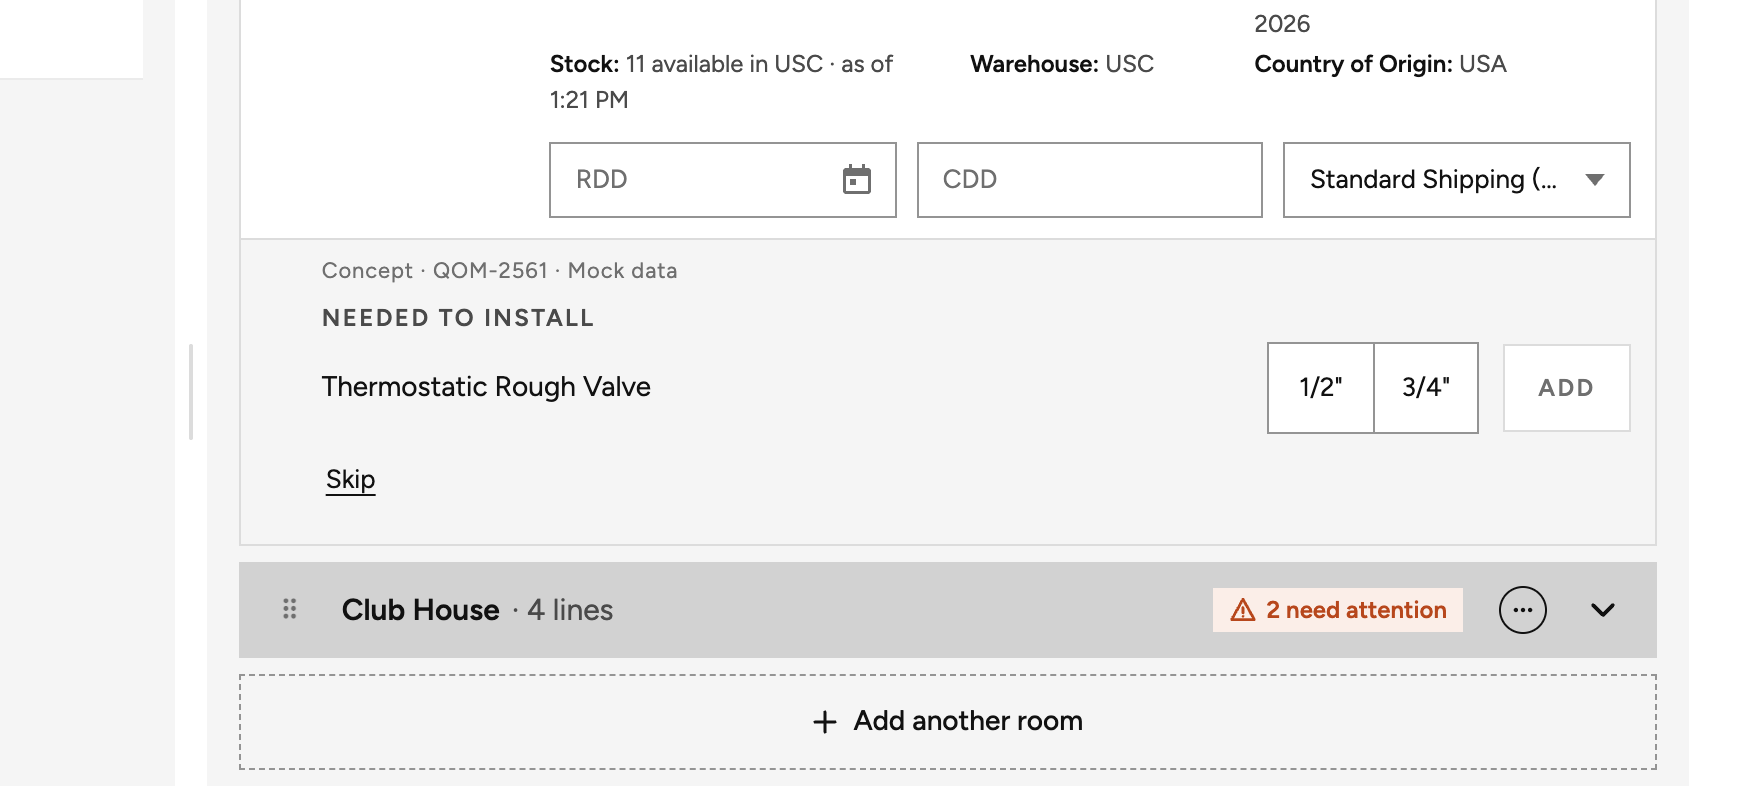
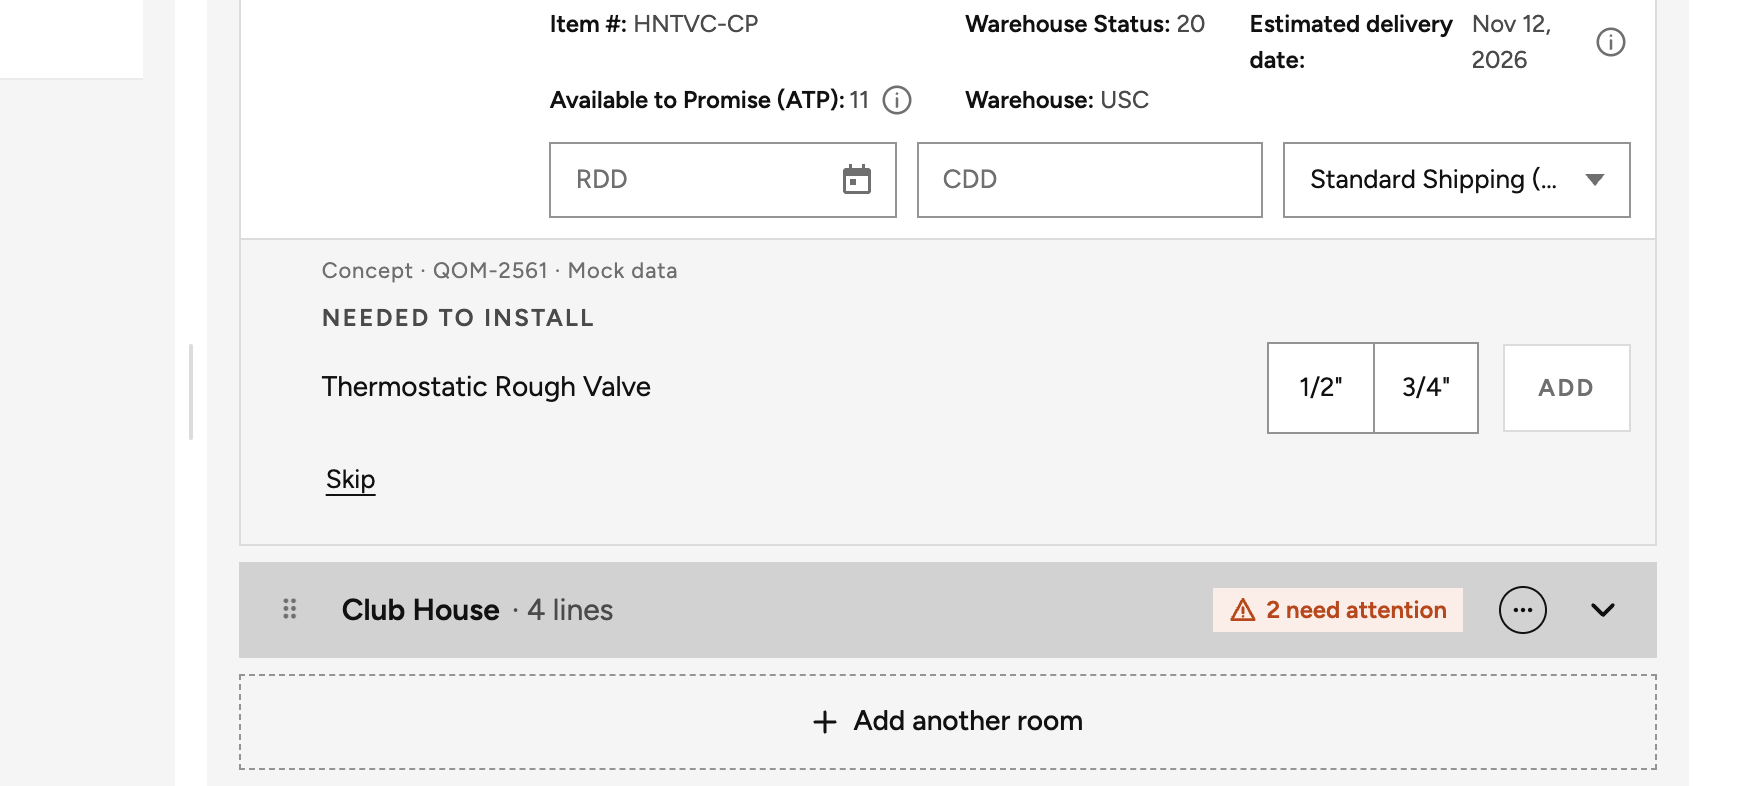
Apply Kelli's feedback: status in results, show/hide checkbox, origin
- Every result row shows the item's status: in the Status column at 500px+,
  otherwise under the name ("Style ARTF · Status 20"). Today's results show it.
- "Show discontinued and in-development items" checkbox at the bottom of
  More filters, kept in step with the demo bar toggle.
- Status 90 counts as discontinued, alongside 80.
- Country of Origin shows on quote lines only in the Commercial view.
- Retake the spec screenshots and add "S-08 Show or hide checkbox in More filters".
- Update CLAUDE.md and prd-trace.md.

diff --git a/qom-product-search-prototype-v2.html b/qom-product-search-prototype-v2.html
@@ -173,9 +173,10 @@ table.res{width:100%;border-collapse:collapse;background:var(--bg)} /* results s
 table.res .name{min-width:200px}
 #searchPane{container:search/inline-size}
 /* results reveal more as the search side widens: under 500px just the name, style number and list price (no header bar);
-   500px+ the table with item number and list price; 640px+ UOM; 820px+ status and line type */
+   500px+ the table with item number, status and list price; 640px+ UOM; 820px+ line type.
+   Status shows at every width, in the compact line when the table is hidden (Kelli, Nov 5: SCs rely on it today) */
 table.res .ncomp{display:none}
-@container search (max-width:819px){ table.res .c-st,table.res .c-lt{display:none} }
+@container search (max-width:819px){ table.res .c-lt{display:none} }
 @container search (max-width:639px){
   table.res .c-uom{display:none}
   table.res .name{min-width:0} /* the name wraps instead of running off the panel edge */
@@ -1432,8 +1433,9 @@ function passesWith(p,over){
   return true;
 }
 function passesFilters(p){ return passesWith(p); }
+const isDisc=p=>p.st===80||p.st===90; // discontinued is item status 80 or 90 (Kelli, Nov 5)
 function visible(p){
-  if(!S.disc && (p.st===80||p.st===10)) return false;
+  if(!S.disc && (isDisc(p)||p.st===10)) return false;
   if(p.cmm && S.view!=="commercial") return false; // CMM item groups are commercial-only
   if(p.alias) return false;
   return true;
@@ -1445,7 +1447,7 @@ function rank(p,q){
   else if(ql && p.style.toLowerCase()===ql) r-=900;                          // every finish of a style next
   else if(ql && p.sku.toLowerCase().startsWith(ql)) r-=500;
   if(p.part) r+=200;                                                         // sellable above parts
-  if(p.st===10||p.st===80) r+=100;                                                      // can't-add below
+  if(p.st===10||isDisc(p)) r+=100;                                                      // can't-add below
   if(ql && p.name.toLowerCase().includes(ql)) r-=50;
   if(S.recent.includes(p.sku)) r-=5;
   return r;
@@ -1463,7 +1465,7 @@ function facetCounts(){ // counts use the SAME filters as the results (NFR-2)
 
 // ---------- rendering ----------
 function reasonFor(p){
-  if(p.st===80) return "Discontinued. Can't be added; look for a replacement.";
+  if(isDisc(p)) return "Discontinued. Can't be added; look for a replacement.";
   if(p.st===10) return "In development. Not sellable yet; ask Product Ops for timing.";
   return null; // warehouse status and price are only known when the item is added (Scott, Oct 30)
 }
@@ -1590,7 +1592,7 @@ function popHtml(k,label){
     if((S.fq.col||"").trim()) body=listBody("col",cols,count,"collections");
     else { const most=[...cols].sort((a,b)=>catCount("col",b)-catCount("col",a)||alpha(a,b)).slice(0,COL_MOST), rest=cols.filter(o=>!most.includes(o));
       body=fpSearch("col","collections")+`<p class="fpgrp">Most used</p>${most.map(o=>optRow("col",o,count)).join("")}<hr class="fpsep"><p class="fpgrp">All collections, A–Z</p>${rest.map(o=>optRow("col",o,count)).join("")}`; } }
-  else body=`<p class="fpgrp">Line type</p>${LT_ORDER.map(o=>optRow("lt",o,count)).join("")}<p class="fpnote">Not every product has a line type, so these may hide some products.</p>`;
+  else body=`<p class="fpgrp">Line type</p>${LT_ORDER.map(o=>optRow("lt",o,count)).join("")}<p class="fpnote">Not every product has a line type, so these may hide some products.</p><hr class="fpsep"><p class="fpgrp">Status</p><label class="fopt"><input type="checkbox" id="fpDisc"${S.disc?" checked":""}><span>Show discontinued and in-development items</span></label><p class="fpnote">Discontinued is status 80 or 90, and in development is status 10. They show with the reason they can't be added.</p>`; // the SC's own show or hide control (Kelli, Nov 5)
   if(k!=="fin"&&groupSel(k).length) foot=`<div class="fpfoot"><span></span><button type="button" class="tolink" data-fclr="${k}">Clear</button></div>`;
   return `<div class="fpop" id="fpop" role="dialog" aria-label="${label} filter"><div class="fpbody">${body}</div>${foot}</div>`;
 }
@@ -1627,7 +1629,7 @@ function renderResults(){
     box.innerHTML=`<div class="state"><h3>Keep typing to see results</h3>Three or more characters narrows thousands of items to a useful list. An item number can be entered in full. <span class="fr">FR-18</span></div>`; cnt.textContent=""; return;
   }
   const list=run();
-  const hiddenDisc = CAT.filter(p=>(p.st===80||p.st===10) && !S.disc && passesFilters(p) && (tokens(q).length? matches(p,tokens(q)):true)).length;
+  const hiddenDisc = CAT.filter(p=>(isDisc(p)||p.st===10) && !S.disc && passesFilters(p) && (tokens(q).length? matches(p,tokens(q)):true)).length;
   const finSel=[...S.filters.fin], byp=finBypass();
   const others=finSel.length&&!byp ? CAT.filter(p=>visible(p)&&!passesFilters(p)&&passesWith(p,{fin:new Set()})&&(tokens(q).length?matches(p,tokens(q)):true)).length : 0;
   // results line in plain words: "12 Henry accessories in Nickel", "3 results for “HNTVC” in Nickel or Brass".
@@ -1654,7 +1656,7 @@ function renderResults(){
     return `<tr class="${blocked?'blocked':''} ${p.part?'part':''} ${openTrays.has(p.sku)?'has-tray':''}">
       <td>${addCell(p,canAdd,blocked)}</td>
       <td>${thumbHtml(p)}</td>
-      <td><div class="name"><span class="pn">${hl(p.name)} in ${hl(p.fin)}</span>${rowTags(p)}${p.cmm?` <span class="tag note" title="Item group ${esc(p.ig)}">Commercial only</span>`:''}${p.kit?` <span class="tag note ktag" title="Includes ${p.kit.length} products">Kit · ${p.kit.length} products</span>`:''}${accents}<small class="ncomp">Style ${hl(p.style)}${S.price?` · List ${price}`:""}</small>${reason?`<span class="reason">${esc(reason)} <span class="fr">FR-4</span></span>`:''}</div></td>
+      <td><div class="name"><span class="pn">${hl(p.name)} in ${hl(p.fin)}</span>${rowTags(p)}${p.cmm?` <span class="tag note" title="Item group ${esc(p.ig)}">Commercial only</span>`:''}${p.kit?` <span class="tag note ktag" title="Includes ${p.kit.length} products">Kit · ${p.kit.length} products</span>`:''}${accents}<small class="ncomp">Style ${hl(p.style)} · Status ${p.st}${S.price?` · List ${price}`:""}</small>${reason?`<span class="reason">${esc(reason)} <span class="fr">FR-4</span></span>`:''}</div></td>
       <td class="sku wd c-sku">${hl(p.sku)}${p.style!==p.sku?`<small class="sty">Style ${hl(p.style)}</small>`:""}</td>
       <td class="num wd c-st">${p.st}</td>
       <td class="wd c-lt">${esc(p.lt)}</td>
@@ -1784,7 +1786,7 @@ const pdetails=(p,l,hit,id)=>{ const a=atpInfo(p,l), e=estDelivery(p,l), r=dayOf
   const rdd=isNaN(r)?"":e.getTime()<=r?" · meets RDD":" · after RDD";
   const eddTip=dtip(id+"edd","Estimated delivery date",`The earliest date M3 estimates it could deliver ${q} to this customer, using its normal supply route (for ${LINE_WH} lines, a transfer from USR), compared with the requested delivery date${isNaN(r)?"":` (${fmtLong(new Date(r))})`}. Recalculated each time the quote is opened, and not saved${l.cdd?"; it can differ from the confirmed delivery date (CDD) saved on this line":""}.`,`M3: CODZ (Confirmed delivery date), OIS340MI/LstSupplSummary, customer ${MOCK_CUST}, quantity ${q}.`);
   const src=p.srcwh&&p.srcwh!==LINE_WH?`<div><b>Sourcing warehouse:</b> ${esc(p.srcwh)}</div>`:"";
-  return `<div class="pdet"><div><b>Item #:</b> ${findHl(p.same||p.sku,hit)}</div><div class="dtw"><b>Available to Promise (ATP):</b> ${atpVal}${atpTip}</div><div><b>Warehouse Status:</b> ${p.whst==null?"—":p.whst}</div><div><b>Warehouse:</b> ${LINE_WH}</div><div class="dtw"><b>Estimated delivery date:</b> ${fmtLong(e)}${rdd}${eddTip}</div><div><b>Country of Origin:</b> ${esc(COO[p.col]||"PRT")}</div>${src}</div>`; };
+  return `<div class="pdet"><div><b>Item #:</b> ${findHl(p.same||p.sku,hit)}</div><div class="dtw"><b>Available to Promise (ATP):</b> ${atpVal}${atpTip}</div><div><b>Warehouse Status:</b> ${p.whst==null?"—":p.whst}</div><div><b>Warehouse:</b> ${LINE_WH}</div><div class="dtw"><b>Estimated delivery date:</b> ${fmtLong(e)}${rdd}${eddTip}</div>${S.view==="commercial"?`<div><b>Country of Origin:</b> ${esc(COO[p.col]||"PRT")}</div>`:""}${src}</div>`; }; // Country of Origin is commercial-only (Kelli, Nov 5)
 const SHIP_OPTS=["Standard Shipping (S01)","Expedited (S02)","Second day (S03)"];
 const CAL_ICON='<svg width="16" height="16" viewBox="0 0 16 16" fill="currentColor" aria-hidden="true"><path d="M4 0h1.5v2h5V0H12v2h1.5A1.5 1.5 0 0 1 15 3.5v10a1.5 1.5 0 0 1-1.5 1.5h-11A1.5 1.5 0 0 1 1 13.5v-10A1.5 1.5 0 0 1 2.5 2H4zM2.5 6v7.5h11V6zm2 1.5h3v3h-3z"/></svg>';
 const dayOf=v=>{ const m=/^(\d{1,2})\/(\d{1,2})\/(\d{4})$/.exec((v||"").trim()); return m?new Date(+m[3],+m[1]-1,+m[2]).getTime():NaN; }; // calendar day only, so time of day never matters
@@ -2477,7 +2479,7 @@ document.addEventListener("change",e=>{
     if(t.checked&&syncLike(r,l)) S.dirty=true;
     rerenderKeepFocus(); return; }
   if(t.dataset.sf){ const [room,sku]=t.dataset.key.split("|"); const l=S.quote.rooms.find(x=>x.name===room)?.lines.find(x=>x.sku===sku); if(l){ l[t.dataset.sf]=t.value.trim(); shipDirty(); if(t.dataset.sf==="rdd"){ const n=document.querySelector(`[data-cddnote="${CSS.escape(t.dataset.key)}"]`); if(n) n.outerHTML=cddNote({name:room},l,true); } } return; }
-  if(t.id==="showDisc"){ S.disc=t.checked; search(); return; }
+  if(t.id==="showDisc"||t.id==="fpDisc"){ S.disc=t.checked; $("#showDisc").checked=t.checked; renderFilters(); search(); return; } // More filters checkbox and the demo bar toggle stay in step
   if(t.id==="showPrice"){ S.price=t.checked; renderResults(); return; }
   if(t.dataset.rqty){ const sku=t.dataset.rqty, n=parseInt(t.value,10), p=CAT.find(x=>x.sku===sku), m=p.mult, up=n>0&&n%m!==0; if(n>0&&n!==S.rq[sku]){ S.rq[sku]=up?Math.ceil(n/m)*m:n; up?RROUNDED.add(sku):RROUNDED.delete(sku); } const q=S.rq[sku]??m; t.value=q; // QOM-2961: rounds up to the next multiple
     // updated in place, not re-rendered, so typing a number and then clicking Add still lands on the button

diff --git a/prd-trace.md b/prd-trace.md
@@ -23,9 +23,9 @@ PRD: `prd.md` (last updated Nov 5, 2026). Prototype: `qom-product-search-prototy
 | FR-3 | Filters stay set across searches until cleared; finish options match the product type | `S.filters` L1364. Filter pills L1449–1580. `finishPools()` L1507 separates metal finishes from stone and tile colors by category | Meets | `search()`, clearing the search, and switching rooms (`pickRoom` L1699) all leave `S.filters` alone |
 | FR-3 ☐ | Filters work before any text is typed | `renderResults()` L1589 shows the empty prompt only when there's no query *and* no filter. Scenario: Fresh, then open the Finish pill | Meets | In node, Finish: Nickel plus Collection: Highgate with no text returns 3 products |
 | FR-3 ☐ | A finish chosen once stays on for the next search in that quote | Clear and search handlers at L2299 and L2402–2404 change only `S.query` | Meets | Exception: switching the Scenario to Fresh or Normal clears filters (`clearGroup("all")`, L2354), but that's a demo reset |
-| FR-4 | Can this go on the quote, and if not, why, in plain words (80, 10, warehouse, not set up, waiting on price); show/hide; commercial-only and UK-only rules keep working | `reasonFor()` L1434 (in results). `addLine()` L2202 (at the add). Demo bar: "Show discontinued and in-development" | Partly | Statuses 80 and 10 show in results. Warehouse 50 and no price show at the add. "Not set up" and UK-only aren't modelled |
+| FR-4 | Can this go on the quote, and if not, why, in plain words (80 or 90, 10, warehouse, not set up, waiting on price); show/hide; commercial-only and UK-only rules keep working | `isDisc()` (80 or 90) and `reasonFor()` (in results). `addLine()` (at the add). Show/hide: the "Show discontinued and in-development items" checkbox in More filters (`#fpDisc`), in step with the demo bar toggle | Partly | Statuses 80, 90 and 10 show in results. Warehouse 50 and no price show at the add. "Not set up" and UK-only aren't modelled |
 | FR-4 ☐ | No line from search is dropped at save for product status; discontinued and in-development items show with the reason | `canAdd = roomOk && !blocked` L1621. Search "arrow tub filler" (ARTF-MB, status 80) | Meets | Blocked rows can't be added. With the toggle off, results say "n discontinued or in-development hidden" and no-results offers "Show them" |
-| FR-4 ☐ | Reasons are sentences an SC can act on, not status codes | `reasonFor()` L1435–1436. Add-time notice L2205 (try adding HNTWL-DB or HGBID-N) | Meets | Each reason is a sentence with a next step ("look for a replacement", "ask Product Ops"). But codes still show next to them (see contradiction 6) |
+| FR-4 ☐ | Reasons are sentences an SC can act on, with the item's status shown alongside (PRD updated Nov 5 after Kelli's review) | `reasonFor()`. Status on every row: the Status column at 500px+, or "Style … · Status 20" under the name. Add-time notice (try adding HNTWL-DB or HGBID-N) | Meets | Each reason is a sentence with a next step ("look for a replacement", "ask Product Ops"), and the status shows next to it |
 | FR-4 ☐ | Commercial-only items never on residential quotes; commercial sees all; UK-only stays off US quotes | `visible()` L1404–1409. Demo bar: View = Residential or Commercial | Partly | In node, "commercial" gives 0 results on Residential and 2 on Commercial. No UK-only field (CFI4) or rule exists in the mock |
 | FR-5 | Visible loading, zero results with next steps, error that says whether to retry | `renderResults()` (loading, error and no-results branches). `search()` delay. Scenario: "Search · Loading", "Search · Error" | Meets (fixed) | All three states can now be reached from the demo bar |
 | FR-5 ☐ | The SC can always tell whether search is running, found nothing, or failed | Scenario "Search · Loading" (searches take 1.5 s). Scenario "Search · Error". No results: search "zzzz" and press Enter | Meets (fixed) | Checked in the browser pane: Loading shows "Searching…" and then results. Error shows "Search didn't complete… Your quote is unchanged" with Try again, which goes back to Normal and re-runs the search. No results lists next steps. The default delay is still 250 ms |
@@ -82,4 +82,4 @@ PRD: `prd.md` (last updated Nov 5, 2026). Prototype: `qom-product-search-prototy
 3. ~~**Add room and rename are separate, and room type isn't visible.**~~ Fixed: one add-or-rename form, and the type shows in the room bar (FR-21). The "Adding to" list still shows line counts, not types; FR-21 is met by the room bar.
 4. **Kit components show as soon as a kit is added.** Technical discovery: "Kits: components don't exist until the quote round-trips to M3". The PRD's Design section acknowledges this ("the prototype's kit expansion follows the bundle convention"). Proposal: label the components as a preview until save, or add this to Design questions.
 5. **"Often added" checks only the same room.** The PRD says "a part already on the quote isn't offered again", but v2's "Often added" checks only the same room for a part already added. Required parts are counted quote-wide, so they're fine. (Resolved Nov 5: the PRD's FR-14 now says a skipped required part is a "to check" warning, not a blocker, unless Kelli decides otherwise, which matches v2's "To check" placement, `crWarn`.)
-6. **Status codes appear next to the reasons.** FR-4: "Reasons are sentences an SC can act on, not status codes". The sentences are there, but results have a raw Status column (80, 10, 20) and the add-time notice ends "(warehouse status 50)". This is a mild conflict. Proposal: keep codes in a detail view, or have the PRD allow codes beside the sentence.
+6. **Status codes appear next to the reasons.** Resolved Nov 5: Kelli wants the status shown, as today's results do, so the PRD (FR-4) now allows it beside the sentence and the prototype shows it on every row.

diff --git a/CLAUDE.md b/CLAUDE.md
@@ -20,7 +20,9 @@ Extract the `<script>` contents and run `node --check` on them. One stray charac
 - Search: runs on Enter. Words match in any order and case. Exact item numbers and old 12-digit JDE codes come first, with light typo tolerance, and matches are underlined. Service parts are ranked below sellable products (and tagged "Service part"), not hidden.
 - Filters: pills for Finish, Collection, Category (with product types beneath) and More filters (line type), each opening a popover over the results. They work before typing, stay set for the quote until cleared, and show as black removable pills with "Clear all". Counts use the same rules as the results. Values that differ only by case or spacing ("Brass", "BRASS") are one option.
 - States: an empty-search prompt, "keep typing" under three characters, loading, no results with next steps, and an error with retry.
-- Can't-add reasons: discontinued (status 80) and in development (status 10) show in results with the reason. Warehouse status and "waiting on a price" only appear when the item is added.
+- Can't-add reasons: discontinued (status 80 or 90) and in development (status 10) show in results with the reason. Warehouse status and "waiting on a price" only appear when the item is added. The SC shows or hides discontinued and in-development items with a checkbox at the bottom of More filters (kept in step with the demo bar toggle).
+- Every result row shows the item's status: in the Status column when the search side is 500px or wider, otherwise in the line under the name ("Style ARTF · Status 20"). Kelli asked for it on Nov 5 because today's results show it.
+- Country of Origin shows on quote lines only in the Commercial view (it's commercial-only in QOM).
 - Results show no stock or availability. Availability appears on the quote line, worded as QOM-2926 will build it: "Available to Promise (ATP): 4" (or "9 from Feb 15, 2027" when only available later), "Estimated delivery date: Nov 12, 2026 · meets RDD" (or "· after RDD"), and "Sourcing warehouse: <code>" only when it differs from the line's warehouse (mock: Henry Single Robe Hook, HNHK-N, ships from USR). ATP and the date each have a two-layer tooltip: a plain sentence, then an "M3:" line (AVTP, CODZ, OIS340MI/LstSupplSummary, mock customer and quantity). No "as of" time.
 - Room picker: the quote's own rooms come first, then "+ Add room", then the standard room types. One form adds or renames a room: "Rename room" in a room's "…" menu opens the Add room form filled in. Type is required and name is optional. The room bar shows the type in grey after the name ("sams kitchen · Kitchen") unless they're the same.
 - Quote panel: rooms, lines, quantities, per-line shipping, "Find in this quote", plus Quote information and PDF preview tabs.
@@ -38,7 +40,7 @@ Extract the `<script>` contents and run `node --check` on them. One stray charac
 - Simulate a save that returns an Autospec or Pricing problem.
 - Toggles:
   - Stock warning examples: on by default.
-  - Show discontinued and in-development: on by default.
+  - Show discontinued and in-development: on by default. The same setting is the "Show discontinued and in-development items" checkbox in More filters.
   - Price in results (needs an M3 call per item): off by default.
   - Concept: Required parts on add (QOM-2561): off by default; `#concept-required-parts` in the URL also turns it on. It offers rough-in valves and often-added parts under a newly added line, using a mock `requiredParts` map.
 
